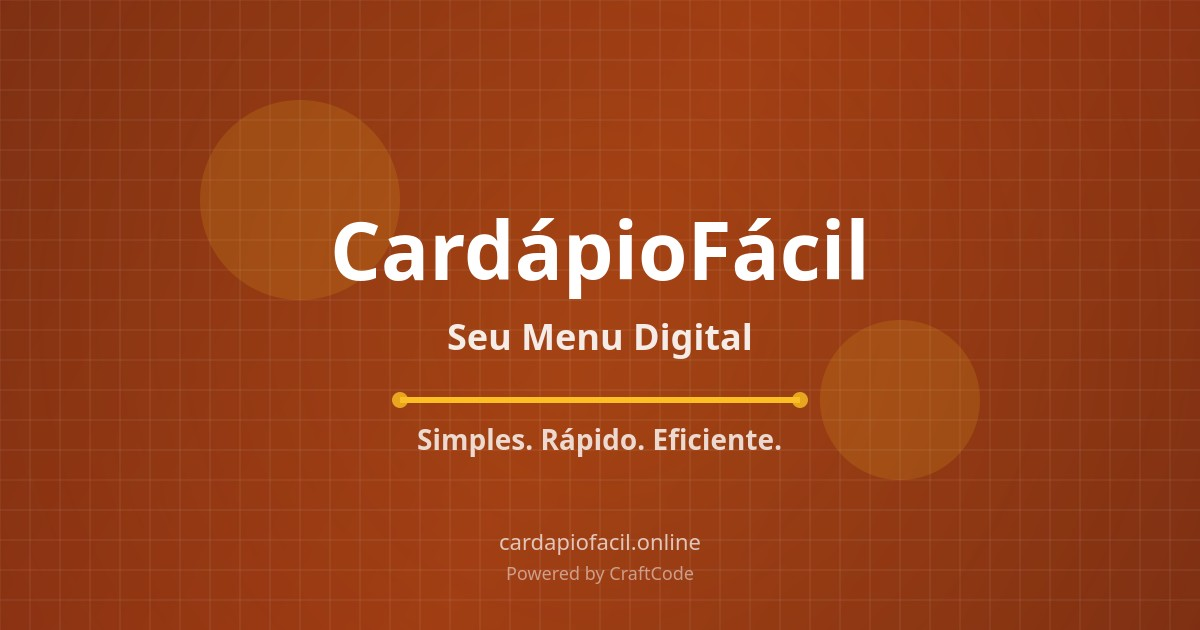
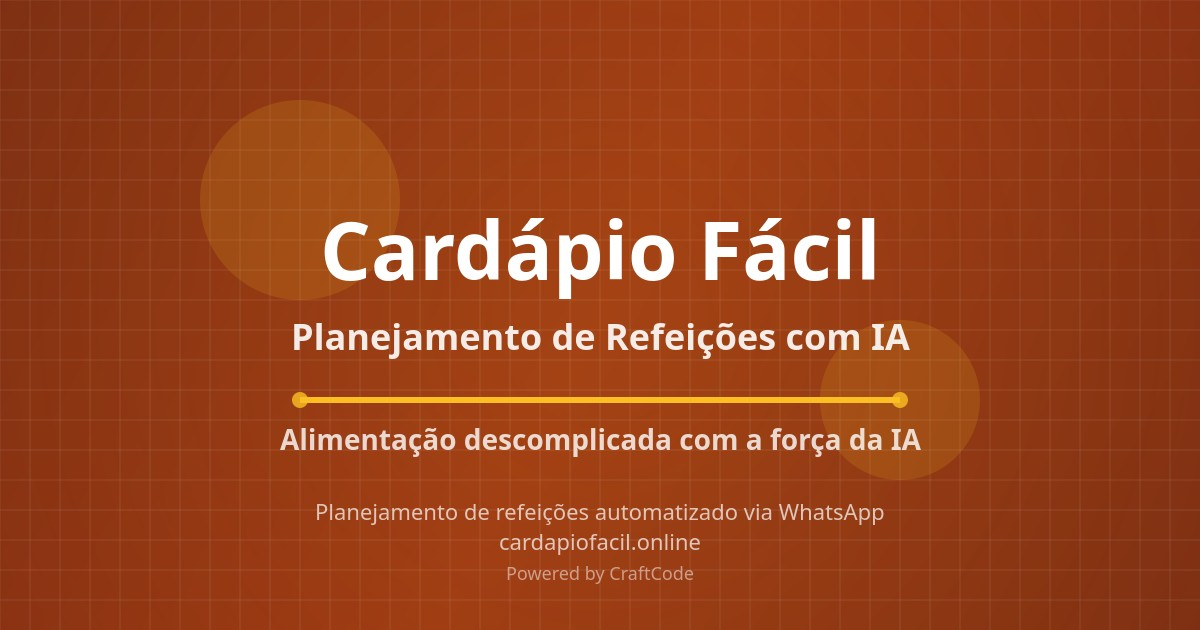
feat(branding): update CardapioFacil OG image with content from page

diff --git a/scripts/generate-og-image.js b/scripts/generate-og-image.js
@@ -198,35 +198,40 @@ async function generateCardapioFacilOgImage() {
   ctx.fillStyle = '#ffffff';
   ctx.font = 'bold 80px "Inter", sans-serif';
   ctx.textAlign = 'center';
-  ctx.fillText('CardápioFácil', 600, 280);
+  ctx.fillText('Cardápio Fácil', 600, 280);
 
   // Add subtitle
   ctx.fillStyle = 'rgba(255, 255, 255, 0.9)';
   ctx.font = 'bold 36px "Inter", sans-serif';
-  ctx.fillText('Seu Menu Digital', 600, 350);
+  ctx.fillText('Planejamento de Refeições com IA', 600, 350);
 
   // Add accent line
   ctx.strokeStyle = '#fbbf24'; // Tailwind amber-400
   ctx.lineWidth = 6;
   ctx.beginPath();
-  ctx.moveTo(400, 400);
-  ctx.lineTo(800, 400);
+  ctx.moveTo(300, 400);
+  ctx.lineTo(900, 400);
   ctx.stroke();
   
   // Add decorative elements
   ctx.fillStyle = 'rgba(251, 191, 36, 0.8)';
   ctx.beginPath();
-  ctx.arc(400, 400, 8, 0, Math.PI * 2);
+  ctx.arc(300, 400, 8, 0, Math.PI * 2);
   ctx.fill();
   
   ctx.beginPath();
-  ctx.arc(800, 400, 8, 0, Math.PI * 2);
+  ctx.arc(900, 400, 8, 0, Math.PI * 2);
   ctx.fill();
 
   // Add tagline
   ctx.fillStyle = 'rgba(255, 255, 255, 0.8)';
   ctx.font = 'bold 28px "Inter", sans-serif';
-  ctx.fillText('Simples. Rápido. Eficiente.', 600, 450);
+  ctx.fillText('Alimentação descomplicada com a força da IA', 600, 450);
+
+  // Add description text
+  ctx.fillStyle = 'rgba(255, 255, 255, 0.7)';
+  ctx.font = '22px "Inter", sans-serif';
+  ctx.fillText('Planejamento de refeições automatizado via WhatsApp', 600, 520);
 
   // Add website URL at the bottom
   ctx.fillStyle = 'rgba(255, 255, 255, 0.7)';
